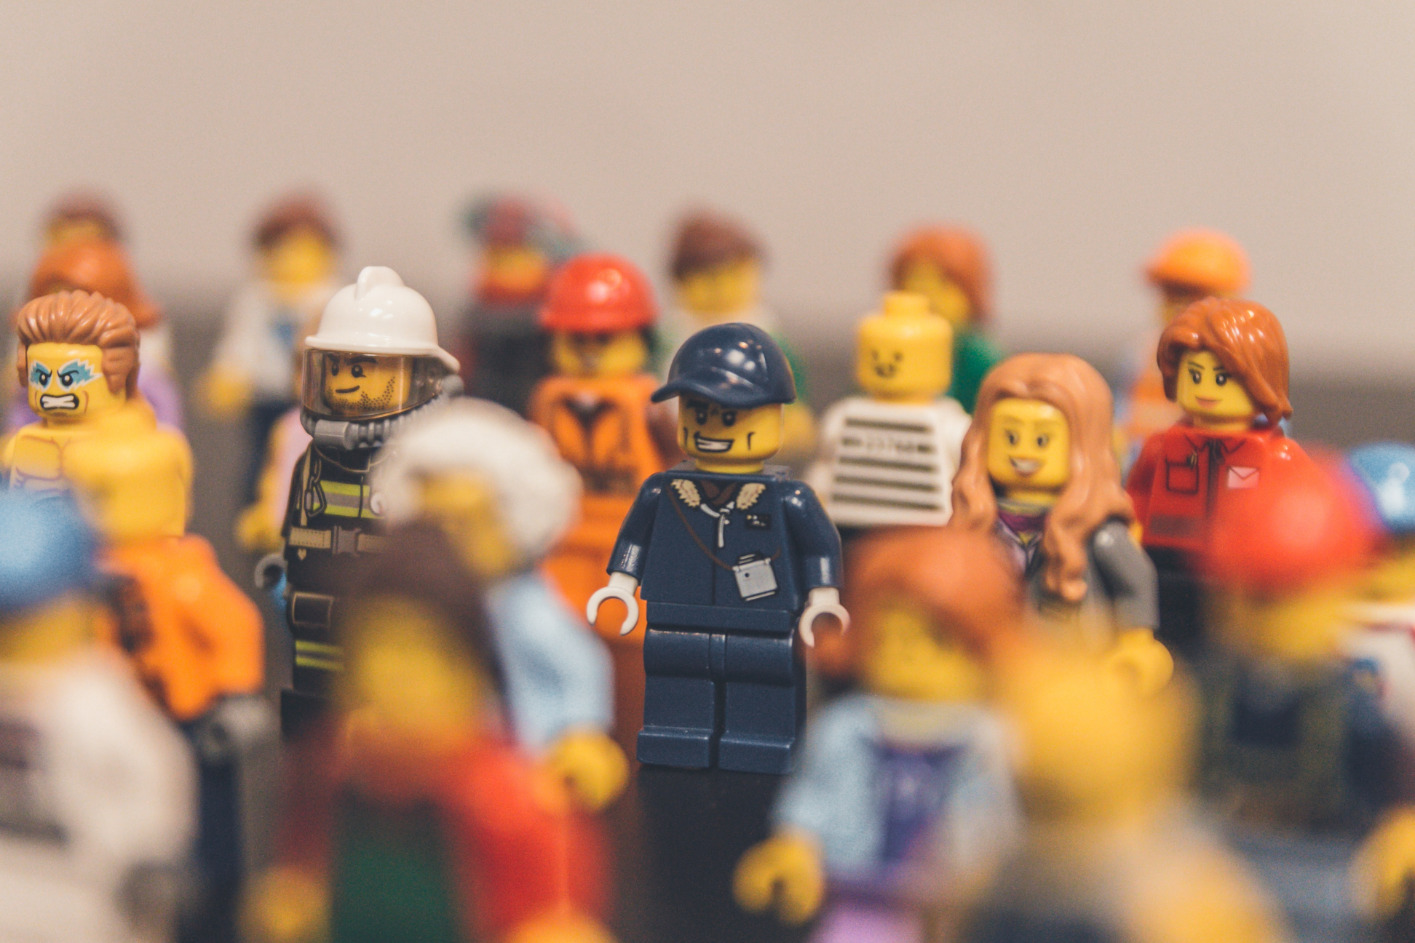
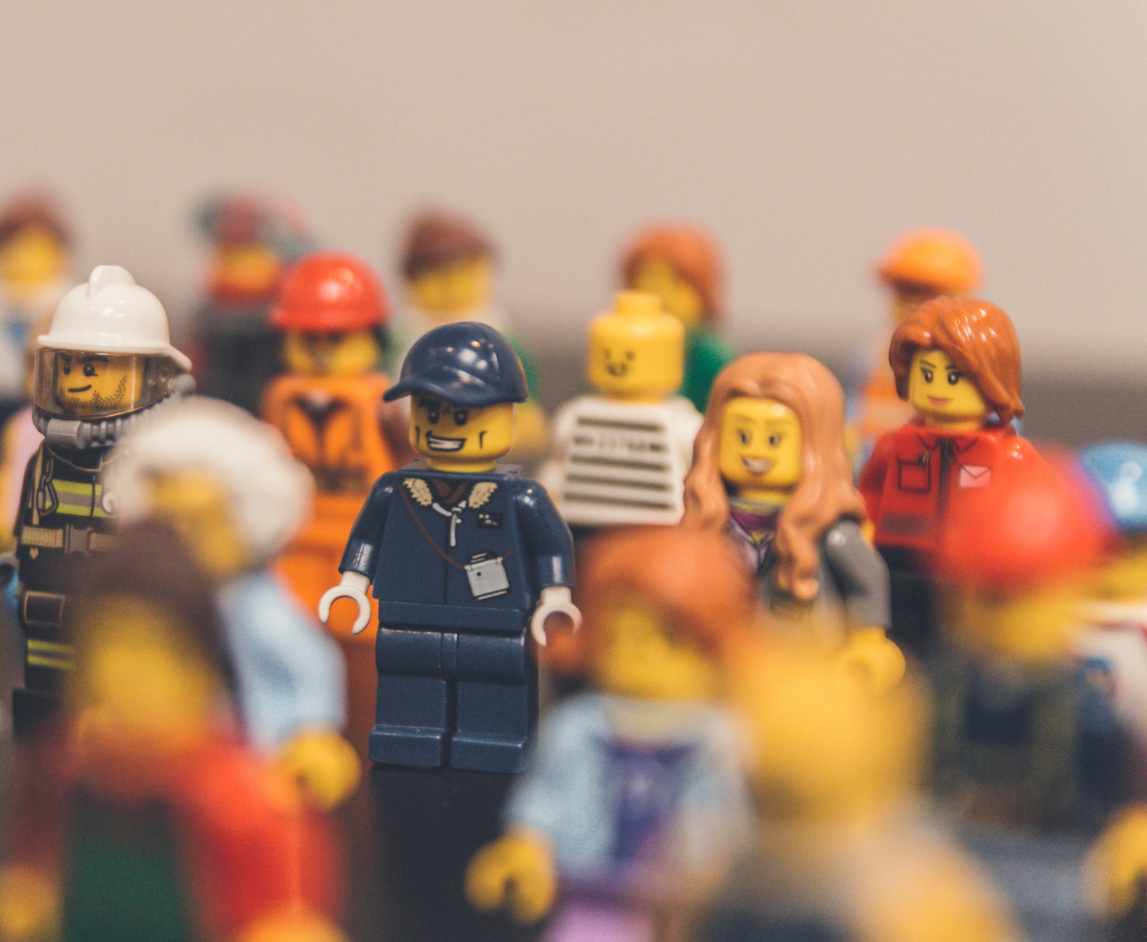
updating signup

diff --git a/client/src/pages/Signup.js b/client/src/pages/Signup.js
@@ -1,46 +1,50 @@
-import React, {useState} from 'react';
-import {useHistory} from 'react-router-dom';
+import React, { useState } from 'react';
+import { useHistory } from 'react-router-dom';
 import { signUpUserApi } from '../utils/api'
 
 function SignUp() {
     const [name, setName] = useState("");
     const [email, setEmail] = useState("");
     const [password, setPassword] = useState("");
-  
+
     function validateForm() {
-      return name.length > 0 && email.length > 0 && password.length > 0;
+        return name.length > 0 && email.length > 0 && password.length > 0;
     }
-    
+
     const history = useHistory();
 
     async function handleSubmit(event) {
-      event.preventDefault();
-      const response = await signUpUserApi(name, email, password);
-      const data = await response.json();
-      history.push('/shop')
-      console.log(data)
-      console.log(name, email, password)
+        event.preventDefault();
+        const response = await signUpUserApi(name, email, password);
+        const data = await response.json();
+        history.push('/shop')
+        console.log(data)
+        console.log(name, email, password)
     }
-  
+
     return (
-        <div className="row">
-        <div className="col-sm-4"></div>
-        <form className="col-sm-4 my-5 py-3" style={{"backgroundColor": "white", "borderRadius": "10px"}} onSubmit={e => handleSubmit(e)}>
-            <div className="mb-3">
-                <label htmlFor="name" className="form-label">Name</label>
-                <input type="name" className="form-control" value={name} onChange={(e) => setName(e.target.value)} />
+        <div className="signup-body">
+            <div className="signup-body-pic">
+            <section className="signup">
+            <div className="signup1">
+            {/* <form className="col-sm-4 my-5 py-3" style={{ "backgroundColor": "white", "borderRadius": "10px" }} onSubmit={e => handleSubmit(e)}> */}
+                <div className="mb-3">
+                    <label htmlFor="name" className="form-label">Name</label>
+                    <input type="name" className="form-control" value={name} onChange={(e) => setName(e.target.value)} />
+                </div>
+                <div className="mb-3">
+                    <label htmlFor="email" className="form-label">Email </label>
+                    <input type="email" className="form-control" value={email} onChange={(e) => setEmail(e.target.value)} />
+                </div>
+                <div className="mb-3">
+                    <label for="password" className="form-label" >Password</label>
+                    <input type="password" className="form-control" value={password} onChange={(e) => setPassword(e.target.value)} />
+                </div>
+                <button type="submit" className="signupButton" onClick={handleSubmit} disabled={!validateForm()}>Sign Up!</button>
+            {/* </form> */}
             </div>
-            <div className="mb-3">
-                <label htmlFor="email" className="form-label">Email </label>
-                <input type="email" className="form-control" value={email} onChange={(e) => setEmail(e.target.value)} />
+            </section>
             </div>
-            <div className="mb-3">
-                <label for="password" className="form-label" >Password</label>
-                <input type="password" className="form-control" value={password} onChange={(e) => setPassword(e.target.value)} />
-            </div>
-            <button type="submit" className="btn btn-primary" onClick={handleSubmit} disabled={!validateForm()}>SignUp!</button>
-        </form>
-        <div className="col-sm-4"></div>
         </div>
     );
 }

diff --git a/client/src/style.css b/client/src/style.css
@@ -63,6 +63,9 @@ html {
     box-sizing: border-box;
     scroll-behavior: smooth;
 }
+/* ----- End navigation ----- */
+
+
 
 /* --------------------------------------- */
 /* ----- navigation ----- */
@@ -284,6 +287,77 @@ h1 a:hover {
     width: 50%;
     justify-content: center;
 }
+/* --------------------------------------- */
+/* ----- Sign up ----- */
+
+.signup-body {
+    background: linear-gradient(
+      to right,
+      var(--yellow) 0%,
+      var(--yellow) 80%,
+      var(--green) 80%, 
+      var(--green) 100%
+  );
+}
+
+.signup-body-pic {
+  background-image: url('./assets/img/legoFigures.png');
+  height: max-content;
+  background-position:left;
+  background-attachment: fixed;
+  background-repeat: no-repeat;
+}
+
+.signup{
+  display: flex;
+  flex-wrap: wrap;
+  justify-content: center;
+  align-items: center;
+  height: 100%;
+}
+
+.signup1{
+  display: flex;
+  flex-wrap: wrap;
+  flex-direction: column;
+  justify-content: center;
+  gap: 30px;
+  background-color: var(--white);
+  padding: 40px 30px 60px;
+  color: var(--black);
+  font-family: 'HelveticaNCB';
+  font-size: var(--font-size-s);
+  width: 50%;
+  margin: 12rem 8rem 40rem;
+  box-shadow: 0 0 10px rgba(0, 0, 0, 0.5);
+  border-radius: 15px;
+}
+
+.login2{
+  text-align: center;
+  
+}
+
+.signupButton{
+  background-color: var(--red);
+  border: solid 1.5px var(--dove-gray);
+  padding: 30px;
+  color: var(--alabaster);
+  font-family: 'HelveticaNCB';
+  font-size: var(--font-size-s);
+  border-radius: 10px;
+  cursor: pointer;
+  transition: all .2s;
+}
+
+.signupButton:hover {
+  background-color: var(--scooter);
+  transform: scale(1.3);
+}
+
+/* ----- End Footer ----- */
+
+
 
 /* --------------------------------------- */
 /* ----- Footer ----- */
